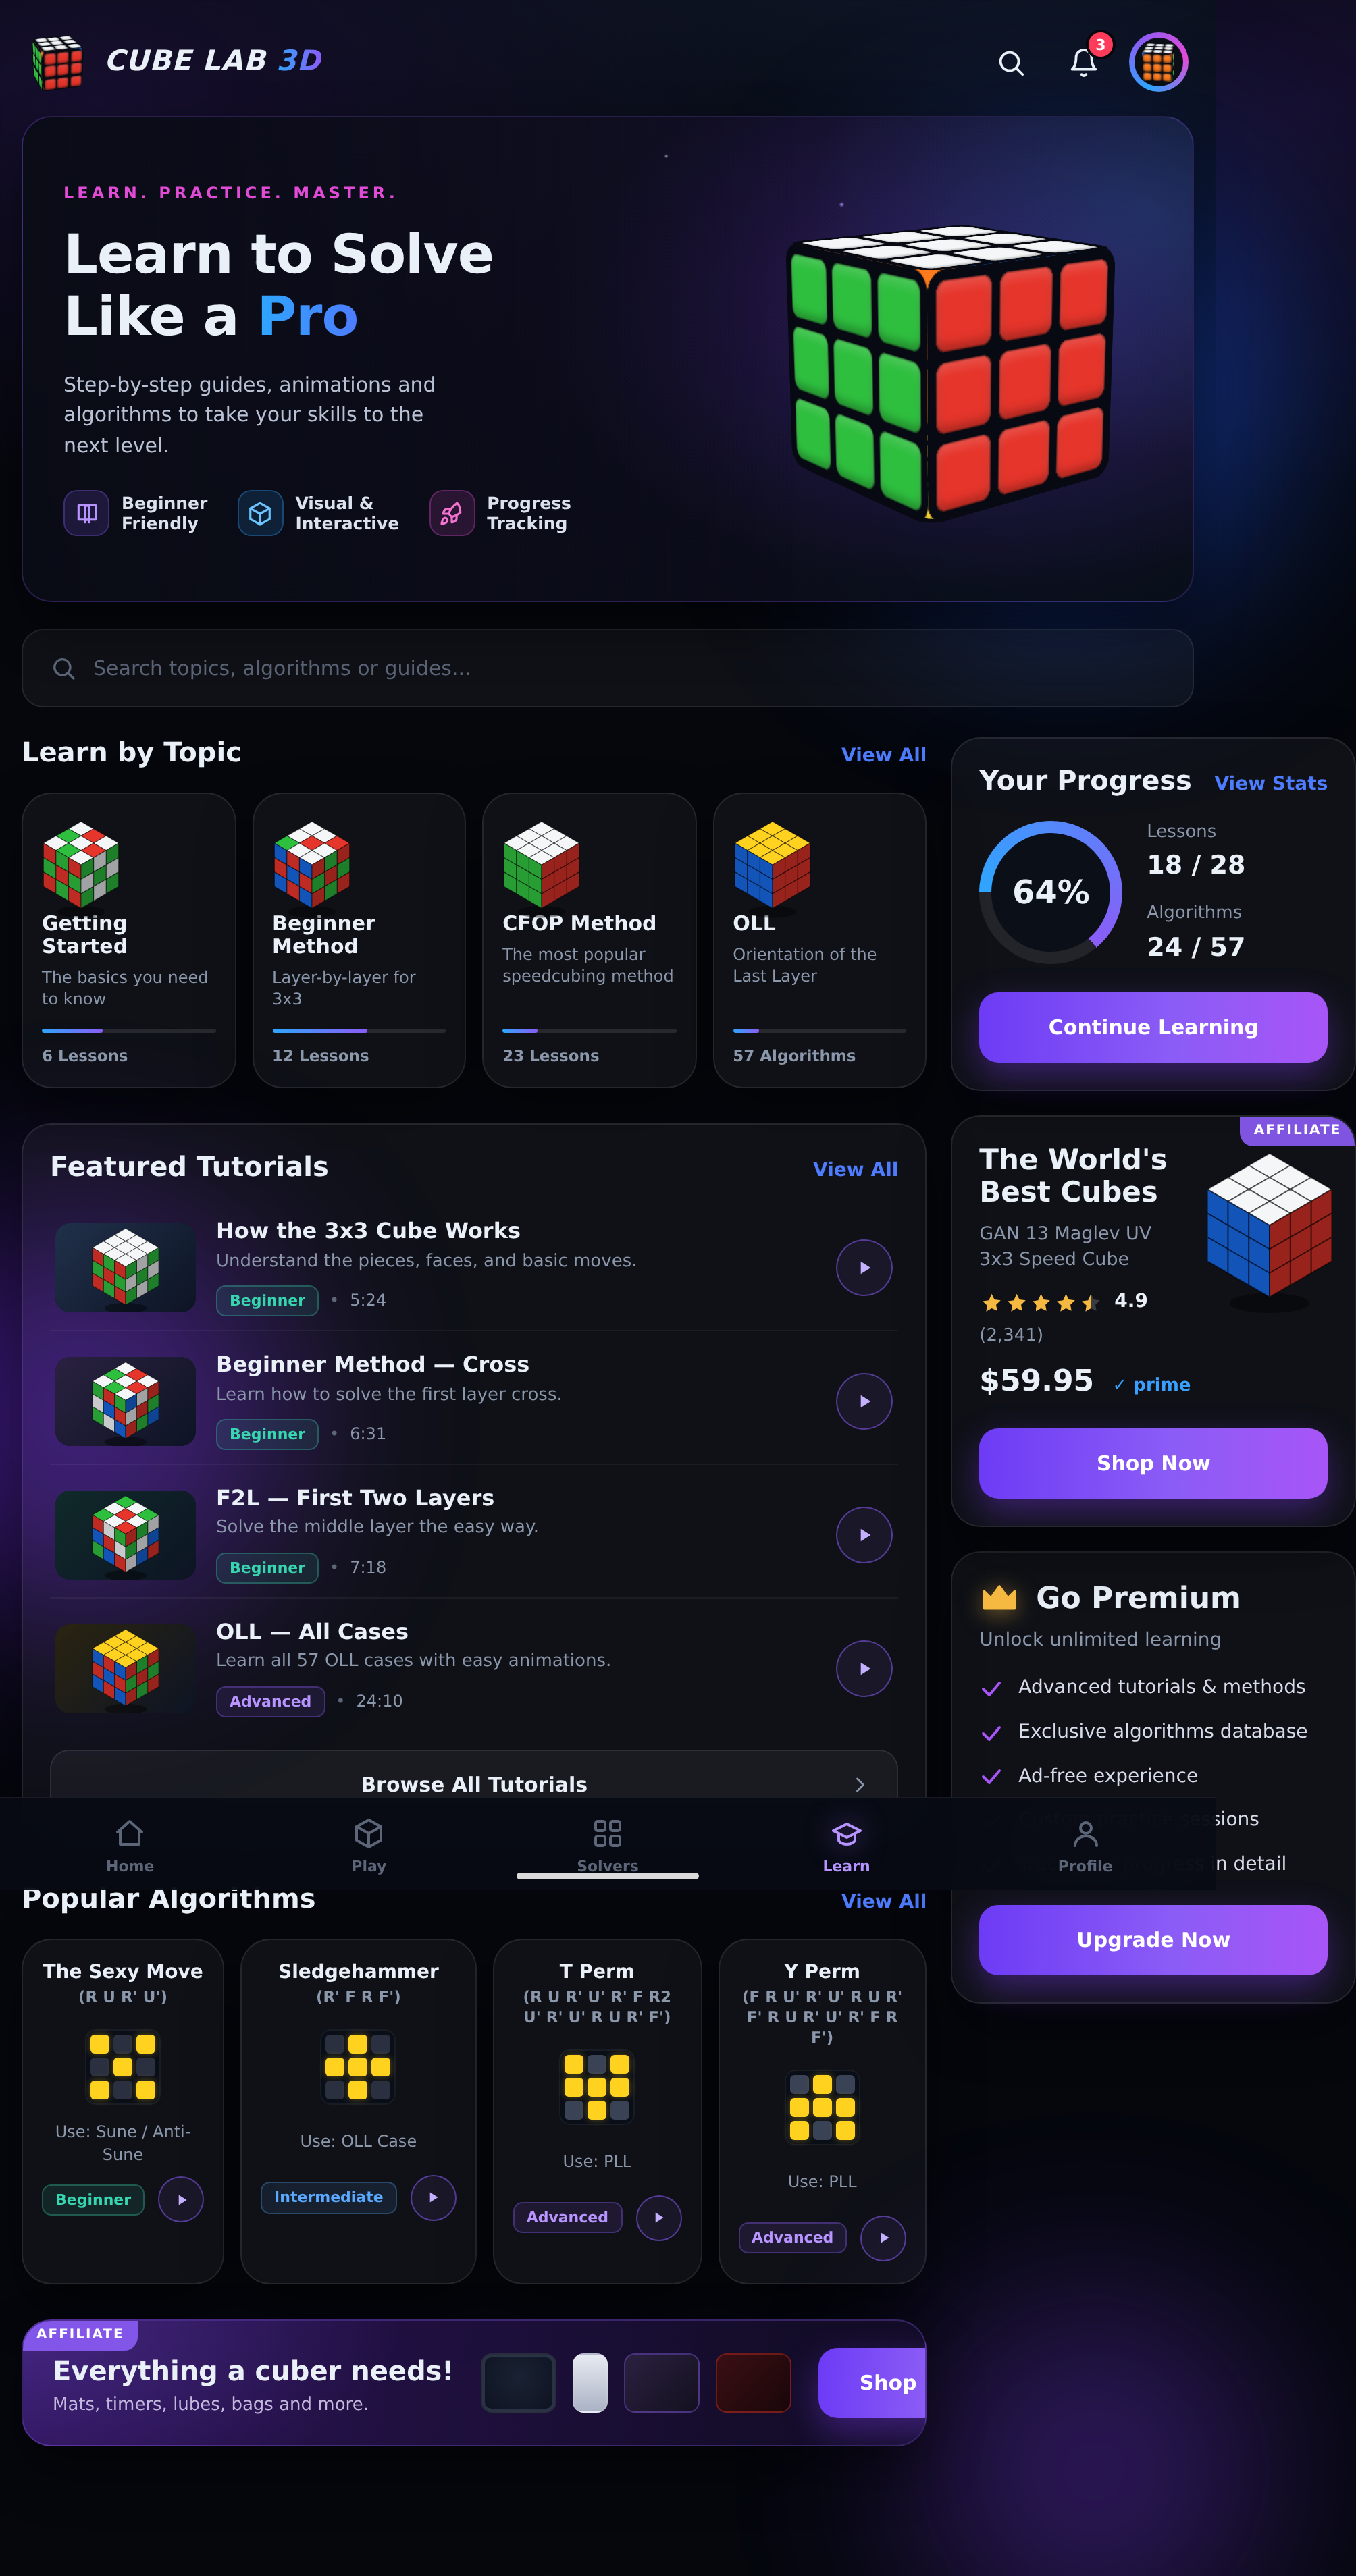
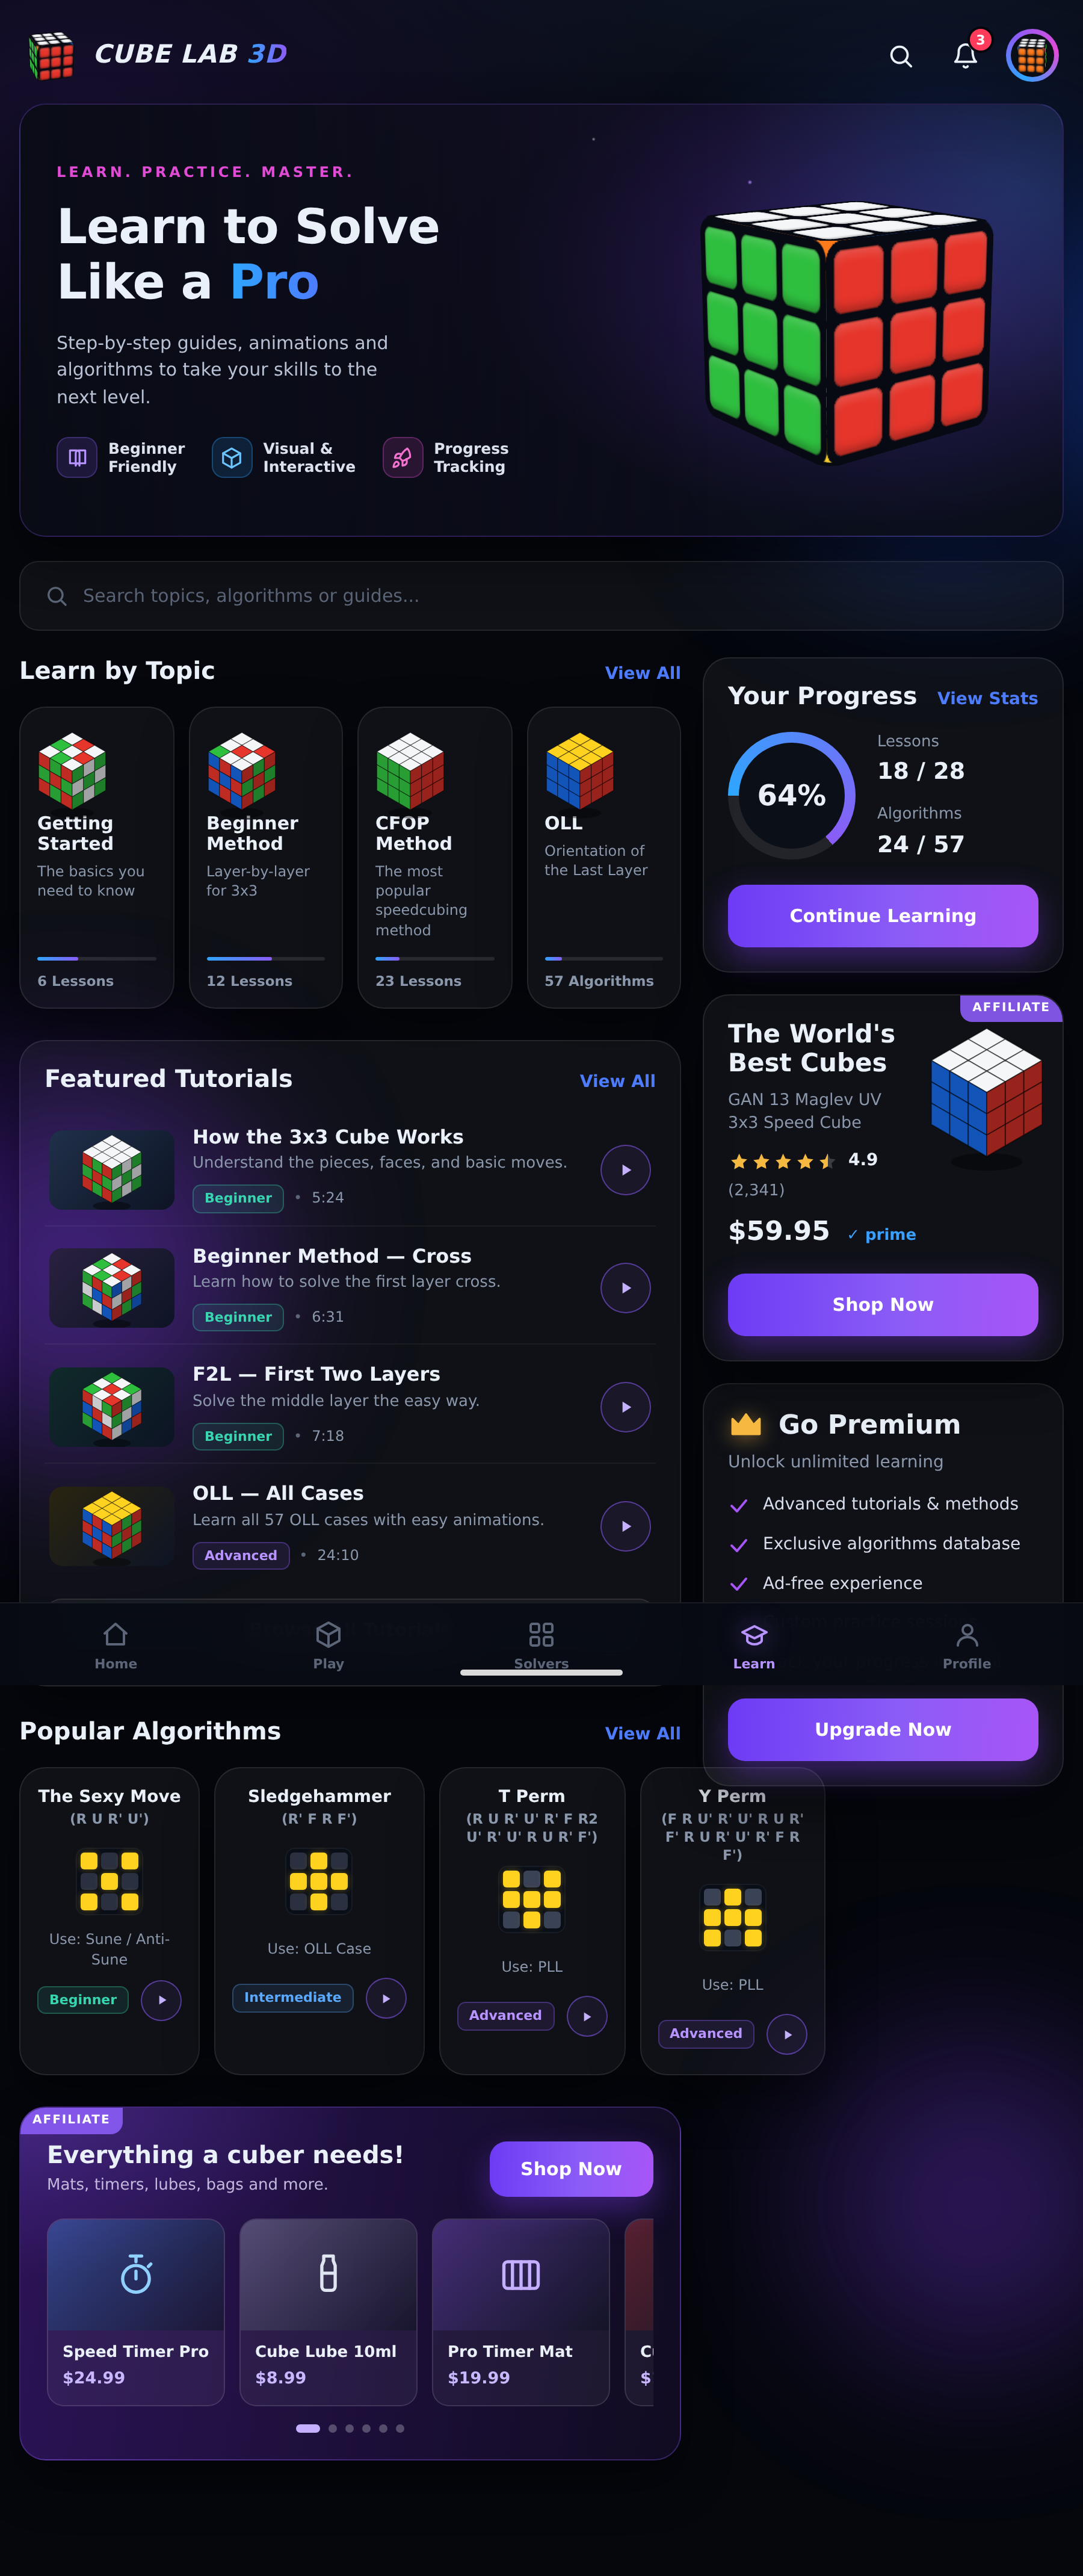
Turn affiliate product row into a real carousel
Replaces the ambiguous static product blocks with an auto-rotating, swipeable
carousel of clickable product cards (icon, name, price). Uses native
scroll-snap for touch swipe, a JS auto-advance (every 2.8s) that pauses on
hover/focus/touch, dot indicators that track scroll position, and
prefers-reduced-motion disables the auto-advance. Adds min-width:0 to the main
column and carousel so the track clamps and scrolls instead of overflowing the
page. Restructures the strip into a head row (copy + Shop Now) above the
carousel. Refreshes preview.png.

Claude-Session: https://claude.ai/code/session_01L8zL9Kydsrdxk3rGZvf91A

diff --git a/design/learn/styles.css b/design/learn/styles.css
@@ -182,7 +182,7 @@ h1,h2,h3{line-height:1.15}
 
 /* ================= LAYOUT ================= */
 .layout{display:grid;grid-template-columns:1fr 300px;gap:18px;align-items:start}
-.col-main{display:flex;flex-direction:column;gap:26px}
+.col-main{display:flex;flex-direction:column;gap:26px;min-width:0}
 .col-side{display:flex;flex-direction:column;gap:18px;position:sticky;top:14px}
 
 /* section headers */
@@ -252,9 +252,9 @@ h1,h2,h3{line-height:1.15}
   align-items:center}
 .algo-foot{margin-top:8px;display:flex;align-items:center;gap:10px}
 
-/* ================= AFFILIATE STRIP ================= */
-.affiliate-strip{position:relative;display:flex;align-items:center;gap:20px;
-  padding:20px 22px;overflow:hidden;
+/* ================= AFFILIATE STRIP + CAROUSEL ================= */
+.affiliate-strip{position:relative;display:flex;flex-direction:column;gap:16px;
+  padding:22px;overflow:hidden;
   background:
     radial-gradient(400px 200px at 0% 0%,rgba(139,92,246,.28),transparent 70%),
     linear-gradient(100deg,rgba(76,29,149,.55),rgba(23,16,46,.6));
@@ -262,22 +262,43 @@ h1,h2,h3{line-height:1.15}
 .aff-tag{position:absolute;top:0;left:0;background:rgba(139,92,246,.9);color:#fff;
   font-size:10px;font-weight:800;letter-spacing:1px;padding:4px 10px;
   border-radius:0 0 10px 0}
-.aff-copy{flex:none;padding-top:6px}
+.aff-head{display:flex;align-items:center;justify-content:space-between;gap:16px;
+  padding-top:6px}
 .aff-copy h3{font-size:20px;font-weight:800}
 .aff-copy p{margin-top:5px;font-size:13px;color:#c3b8dd}
-.aff-products{flex:1;display:flex;align-items:center;justify-content:center;gap:12px}
-.prod{width:56px;height:44px;border-radius:8px;flex:none;
-  background:#0d1220;border:1px solid rgba(255,255,255,.1)}
-.prod.timer{background:radial-gradient(circle at 50% 40%,#1a2233,#0d1220);
-  box-shadow:inset 0 0 0 2px #2a3346}
-.prod.lube{width:26px;background:linear-gradient(#e8ebf2,#aab2c4)}
-.prod.mat{background:linear-gradient(135deg,#2a2140,#14101f);border-color:rgba(139,92,246,.4)}
-.prod.bag{background:linear-gradient(135deg,#3a0f14,#1a0709);border-color:rgba(230,53,43,.4)}
 .btn-grad{width:100%;height:52px;border-radius:14px;background:var(--grad-cta);
   color:#fff;font-size:15px;font-weight:700;
   box-shadow:0 10px 26px rgba(124,58,237,.4);transition:filter .15s ease,transform .15s ease}
 .btn-grad:hover{filter:brightness(1.08);transform:translateY(-1px)}
-.affiliate-strip .shop{width:auto;flex:none;padding:0 30px}
+.aff-head .shop{width:auto;flex:none;padding:0 26px;height:46px}
+
+/* carousel */
+.aff-carousel{position:relative;min-width:0}
+.aff-viewport{min-width:0;overflow-x:auto;scroll-snap-type:x mandatory;scroll-behavior:smooth;
+  scrollbar-width:none;-ms-overflow-style:none}
+.aff-viewport::-webkit-scrollbar{display:none}
+.aff-track{display:flex;gap:12px;padding:2px}
+.prod-card{scroll-snap-align:start;flex:0 0 148px;display:flex;flex-direction:column;
+  color:var(--text);border-radius:14px;overflow:hidden;
+  background:rgba(255,255,255,.05);border:1px solid rgba(255,255,255,.12);
+  transition:transform .15s ease,border-color .15s ease}
+.prod-card:hover{transform:translateY(-3px);border-color:rgba(196,176,255,.5)}
+.pc-img{height:92px;display:grid;place-items:center;position:relative}
+.pc-ico{width:38px;height:38px;fill:none;stroke:currentColor;stroke-width:1.7;
+  stroke-linecap:round;stroke-linejoin:round}
+.pc-img.t-blue  {background:linear-gradient(135deg,rgba(46,166,255,.28),rgba(10,16,28,.5));color:#8fd0ff}
+.pc-img.t-slate {background:linear-gradient(135deg,rgba(190,200,220,.28),rgba(10,16,28,.5));color:#dfe6f2}
+.pc-img.t-purple{background:linear-gradient(135deg,rgba(139,92,246,.3),rgba(10,16,28,.5));color:#c4b0ff}
+.pc-img.t-red   {background:linear-gradient(135deg,rgba(230,53,43,.28),rgba(10,16,28,.5));color:#ff9b93}
+.pc-img.t-green {background:linear-gradient(135deg,rgba(52,208,88,.28),rgba(10,16,28,.5));color:#8ee9a6}
+.pc-img.t-cyan  {background:linear-gradient(135deg,rgba(56,189,248,.3),rgba(10,16,28,.5));color:#8fe3ff}
+.pc-body{padding:10px 12px 12px}
+.pc-name{display:block;font-size:13px;font-weight:700}
+.pc-price{display:block;margin-top:3px;font-size:13.5px;font-weight:800;color:#c9b8ff}
+.aff-dots{display:flex;justify-content:center;gap:7px;margin-top:13px}
+.aff-dots button{width:7px;height:7px;padding:0;border:none;border-radius:50%;
+  background:rgba(255,255,255,.26);cursor:pointer;transition:width .2s ease,background .2s ease}
+.aff-dots button.on{width:20px;border-radius:4px;background:#c4b0ff}
 
 /* ================= SIDEBAR: PROGRESS ================= */
 .progress-body{display:flex;align-items:center;gap:18px;margin:6px 0 20px}
@@ -366,8 +387,8 @@ h1,h2,h3{line-height:1.15}
     width:190px;height:190px;opacity:.62}
   .hero-title{font-size:34px}
   .topic-grid,.algo-grid{grid-template-columns:repeat(2,1fr)}
-  .affiliate-strip{flex-wrap:wrap}
-  .affiliate-strip .shop{width:100%}
+  .aff-head{flex-direction:column;align-items:stretch;gap:14px}
+  .aff-head .shop{width:100%;height:50px}
   .col-side{flex-direction:column}
 }
 @media (max-width:440px){

diff --git a/design/learn/script.js b/design/learn/script.js
@@ -126,4 +126,46 @@
     b.animate([{ transform: "scale(1)" }, { transform: "scale(.97)" }, { transform: "scale(1)" }],
       { duration: 150, easing: "ease-out" });
   });
+
+  /* ---- affiliate product carousel: auto-rotate + swipe + dots ---- */
+  function initCarousel(root) {
+    var vp = root.querySelector(".aff-viewport");
+    var cards = root.querySelectorAll(".prod-card");
+    var dotsWrap = root.querySelector(".aff-dots");
+    if (!vp || !cards.length || !dotsWrap) return;
+    var reduce = window.matchMedia("(prefers-reduced-motion: reduce)").matches;
+    var idx = 0, timer = null;
+
+    cards.forEach(function (_, i) {
+      var b = document.createElement("button");
+      b.type = "button";
+      b.setAttribute("aria-label", "Show product " + (i + 1) + " of " + cards.length);
+      if (i === 0) { b.className = "on"; b.setAttribute("aria-current", "true"); }
+      b.addEventListener("click", function () { go(i); });
+      dotsWrap.appendChild(b);
+    });
+    var dots = dotsWrap.querySelectorAll("button");
+
+    function step() { return cards[0].getBoundingClientRect().width + 12; } // card + gap
+    function atEnd() { return vp.scrollLeft + vp.clientWidth >= vp.scrollWidth - 4; }
+    function go(i) { idx = (i + cards.length) % cards.length; vp.scrollTo({ left: idx * step(), behavior: "smooth" }); }
+    function next() { go(atEnd() ? 0 : idx + 1); }
+    function sync() {
+      var i = Math.round(vp.scrollLeft / step());
+      i = Math.max(0, Math.min(cards.length - 1, i));
+      idx = i;
+      dots.forEach(function (d, k) {
+        var on = k === i; d.classList.toggle("on", on);
+        if (on) d.setAttribute("aria-current", "true"); else d.removeAttribute("aria-current");
+      });
+    }
+    vp.addEventListener("scroll", function () { window.requestAnimationFrame(sync); }, { passive: true });
+
+    function start() { if (reduce || timer) return; timer = setInterval(next, 2800); }
+    function stop() { if (timer) { clearInterval(timer); timer = null; } }
+    ["pointerenter", "focusin", "touchstart"].forEach(function (ev) { root.addEventListener(ev, stop, { passive: true }); });
+    ["pointerleave", "focusout", "touchend"].forEach(function (ev) { root.addEventListener(ev, start, { passive: true }); });
+    start();
+  }
+  document.querySelectorAll("[data-carousel]").forEach(initCarousel);
 })();

diff --git a/design/learn/index.html b/design/learn/index.html
@@ -214,20 +214,30 @@
           </div>
         </section>
 
-        <!-- Affiliate strip -->
+        <!-- Affiliate strip: auto-rotating, swipeable product carousel -->
         <section class="affiliate-strip card">
           <span class="aff-tag">AFFILIATE</span>
-          <div class="aff-copy">
-            <h3>Everything a cuber needs!</h3>
-            <p>Mats, timers, lubes, bags and more.</p>
+          <div class="aff-head">
+            <div class="aff-copy">
+              <h3>Everything a cuber needs!</h3>
+              <p>Mats, timers, lubes, bags and more.</p>
+            </div>
+            <button class="btn-grad shop">Shop Now</button>
           </div>
-          <div class="aff-products" aria-hidden="true">
-            <span class="prod timer"></span>
-            <span class="prod lube"></span>
-            <span class="prod mat"></span>
-            <span class="prod bag"></span>
+
+          <div class="aff-carousel" data-carousel aria-roledescription="carousel" aria-label="Featured products">
+            <div class="aff-viewport">
+              <div class="aff-track">
+                <a class="prod-card" href="#"><span class="pc-img t-blue"><svg viewBox="0 0 24 24" class="pc-ico"><circle cx="12" cy="14" r="7"/><path d="M12 14V10"/><path d="M9 2h6"/><path d="M12 2v3"/><path d="M18.5 7.5l1.3-1.3"/></svg></span><span class="pc-body"><span class="pc-name">Speed Timer Pro</span><span class="pc-price">$24.99</span></span></a>
+                <a class="prod-card" href="#"><span class="pc-img t-slate"><svg viewBox="0 0 24 24" class="pc-ico"><path d="M9.5 2h5v2.5l1 2.5v11a2 2 0 0 1-2 2h-3a2 2 0 0 1-2-2V7l1-2.5z"/><path d="M9 11h6"/></svg></span><span class="pc-body"><span class="pc-name">Cube Lube 10ml</span><span class="pc-price">$8.99</span></span></a>
+                <a class="prod-card" href="#"><span class="pc-img t-purple"><svg viewBox="0 0 24 24" class="pc-ico"><rect x="3" y="5" width="18" height="14" rx="2"/><path d="M7.5 5v14M12 5v14M16.5 5v14"/></svg></span><span class="pc-body"><span class="pc-name">Pro Timer Mat</span><span class="pc-price">$19.99</span></span></a>
+                <a class="prod-card" href="#"><span class="pc-img t-red"><svg viewBox="0 0 24 24" class="pc-ico"><path d="M6 8h12l-1 12H7z"/><path d="M9 8V6a3 3 0 0 1 6 0v2"/></svg></span><span class="pc-body"><span class="pc-name">Cube Carry Bag</span><span class="pc-price">$14.99</span></span></a>
+                <a class="prod-card" href="#"><span class="pc-img t-green"><svg viewBox="0 0 24 24" class="pc-ico"><path d="M4 20h16"/><path d="M12 5l6 11H6z"/></svg></span><span class="pc-body"><span class="pc-name">Display Stand</span><span class="pc-price">$6.99</span></span></a>
+                <a class="prod-card" href="#"><span class="pc-img t-cyan"><svg viewBox="0 0 24 24" class="pc-ico"><path d="M12 2l9 5v10l-9 5-9-5V7z"/><path d="M3 7l9 5 9-5"/><path d="M12 12v10"/></svg></span><span class="pc-body"><span class="pc-name">GAN 13 Maglev</span><span class="pc-price">$59.95</span></span></a>
+              </div>
+            </div>
+            <div class="aff-dots" aria-label="Choose product"></div>
           </div>
-          <button class="btn-grad shop">Shop Now</button>
         </section>
       </main>
 

diff --git a/design/learn/README.md b/design/learn/README.md
@@ -30,5 +30,10 @@ Open `index.html` in any browser — it needs no build step or server.
 ## Notes
 - Fully responsive: 2-column desktop → stacked sidebar → single column on phones.
 - Respects `prefers-reduced-motion`.
-- Cards, tags, buttons and the bottom nav are wired for look only (no routing);
-  routing/links come during the React port.
+- The **affiliate strip is a real product carousel** (`.aff-carousel`): native
+  scroll-snap for swipe, JS auto-advance every 2.8s that pauses on hover / focus
+  / touch, dot indicators that track position, and each card is its own link.
+  Auto-advance is disabled under `prefers-reduced-motion` (still swipeable).
+- Other cards, tags, buttons and the bottom nav are wired for look only (no
+  routing); product links point at `#` — real routing/links come with the
+  React port.